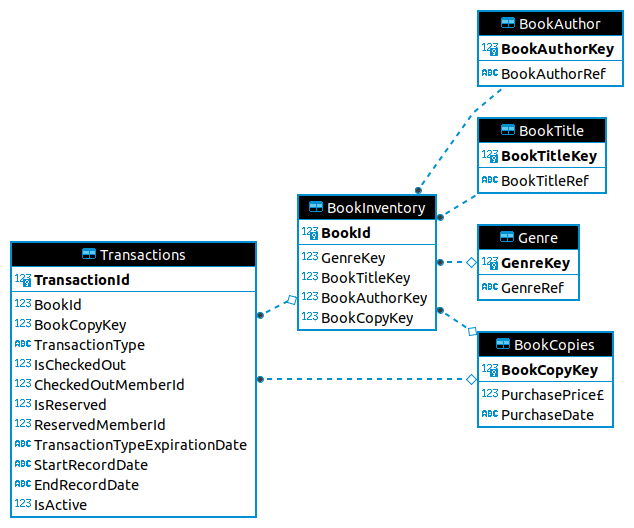
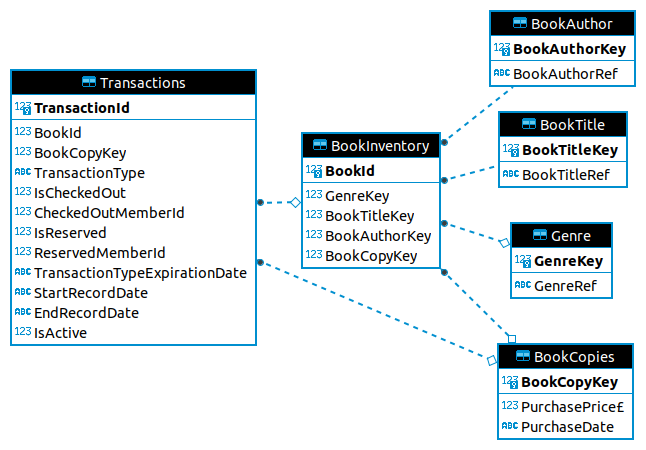
Add text widget to db schema page

diff --git a/src/gui.py b/src/gui.py
@@ -8,16 +8,7 @@ from bookReturn import return_book
 
 
 class app:
-    def __init__(
-        self,
-        master,
-        conn,
-        bs_img_path,
-        rcr_img_path,
-        frb_img_path,
-        dbs_img_path,
-        erd_img_path,
-    ):
+    def __init__(self, master, conn, data_dir_path):
         self.master = master
         self.conn = conn
         self.master.title("Library Management System")
@@ -27,11 +18,11 @@ class app:
         )
         self.master.geometry("%dx%d+0+0" % (self.w, self.h))
         self.master.configure(background="#FFC300")
-        self.bs_img_path = bs_img_path
-        self.rcr_img_path = rcr_img_path
-        self.frb_img_path = frb_img_path
-        self.dbs_img_path = dbs_img_path
-        self.erd_img_path = erd_img_path
+        self.bs_img_path = f"{data_dir_path}/imgs/bs_img.png"
+        self.rcr_img_path = f"{data_dir_path}/imgs/rcr_img.png"
+        self.frb_img_path = f"{data_dir_path}/imgs/frb_img.png"
+        self.dbs_img_path = f"{data_dir_path}/imgs/dbs_img.png"
+        self.erd_img_path = f"{data_dir_path}/imgs/erd_diagram.png"
         self.main_page()
 
     def show_frame(self, frame):
@@ -55,18 +46,23 @@ class app:
 
         return label.img
 
+    def create_text_widget(self, frame, text, x, y, w):
+        # add Text widget
+        T = Text(frame, **self.get_font_fg_bg())
+        T.tag_configure("center", justify="center")
+        T.insert(END, text)
+        T.tag_add("center", "1.0", END)
+        T.config(state="disabled")
+        T.place(relx=x, rely=y, anchor=CENTER, height=80, width=w)
+
     def main_page(self):
         self.master.title("Library Management System")
 
         self.main_frame = Frame(self.master, bg="#FFC300", height=700, width=900)
 
         # add Text widget
-        T = Text(self.main_frame, **self.get_font_fg_bg())
         text = "\nWelcome to Petros's Library Management System"
-        T.tag_configure("center", justify="center")
-        T.insert(END, text)
-        T.tag_add("center", "1.0", END)
-        T.place(relx=0.53, rely=0.35, anchor=CENTER, height=80, width=700)
+        self.create_text_widget(frame=self.main_frame, text=text, x=0.53, y=0.35, w=700)
 
         self.search_bton = Button(
             self.main_frame,
@@ -134,7 +130,9 @@ class app:
                 self.entry_widget.get(), self.rcr_dropdown.get()
             )
 
-    def create_bottom_button_widgets(self, frame, curr_page, go_back_bton_x=0.35):
+    def create_bottom_button_widgets(
+        self, frame, curr_page, go_back_bton_x=0.35, go_back_bton_y=0.9
+    ):
         self.go_back_bton = Button(
             frame,
             text="Go Back",
@@ -142,7 +140,11 @@ class app:
             command=lambda: [self.hide_frame(frame), self.main_page()],
         )
         self.go_back_bton.place(
-            relx=go_back_bton_x, rely=0.9, anchor=CENTER, height=40, width=220
+            relx=go_back_bton_x,
+            rely=go_back_bton_y,
+            anchor=CENTER,
+            height=40,
+            width=220,
         )
 
         # db_schema page should not have a submit button
@@ -265,7 +267,13 @@ class app:
         self.master.title("DB Schema")
 
         # create new frame for the 'db_schema_page' page to attach all its widgets
-        self.db_schema_frame = Frame(self.master, bg="#FFC300", height=700, width=1000)
+        self.db_schema_frame = Frame(self.master, bg="#FFC300", height=800, width=1000)
+
+        # add Text widget
+        text = "\nMy Database Schema"
+        self.create_text_widget(
+            frame=self.db_schema_frame, text=text, x=0.515, y=0.1, w=500
+        )
 
         # create canvas and place it on the frame
         canvas = Canvas(
@@ -280,11 +288,14 @@ class app:
         self.db_schema_frame.logo = ImageTk.PhotoImage(erd_img)
 
         # place the image as canvas image object directly on the canvas
-        canvas.create_image(480, 280, image=self.db_schema_frame.logo, anchor=CENTER)
-        canvas.place(relx=0.5, rely=0.42, width=850, height=550, anchor=CENTER)
+        canvas.create_image(450, 280, image=self.db_schema_frame.logo, anchor=CENTER)
+        canvas.place(relx=0.5, rely=0.55, width=900, height=550, anchor=CENTER)
 
         self.create_bottom_button_widgets(
-            frame=self.db_schema_frame, curr_page="db_schema_page", go_back_bton_x=0.5
+            frame=self.db_schema_frame,
+            curr_page="db_schema_page",
+            go_back_bton_x=0.5,
+            go_back_bton_y=0.96,
         )
 
         # show frame with all its widgets

diff --git a/src/menu.py b/src/menu.py
@@ -130,22 +130,8 @@ def main():
         print("DB already exists; no need for creating our tables from scratch again!")
 
     ## gui ###
-    bs_img_path = f"{data_dir_path}/imgs/bs_img.png"
-    rcr_img_path = f"{data_dir_path}/imgs/rcr_img.png"
-    frb_img_path = f"{data_dir_path}/imgs/frb_img.png"
-    dbs_img_path = f"{data_dir_path}/imgs/dbs_img.png"
-    erd_img_path = f"{data_dir_path}/imgs/erd_diagram.png"
-
     root = Tk()
-    gui.app(
-        root,
-        database.conn,
-        bs_img_path,
-        rcr_img_path,
-        frb_img_path,
-        dbs_img_path,
-        erd_img_path,
-    )
+    gui.app(root, database.conn, data_dir_path)
     root.mainloop()
 
     database.conn.close()
